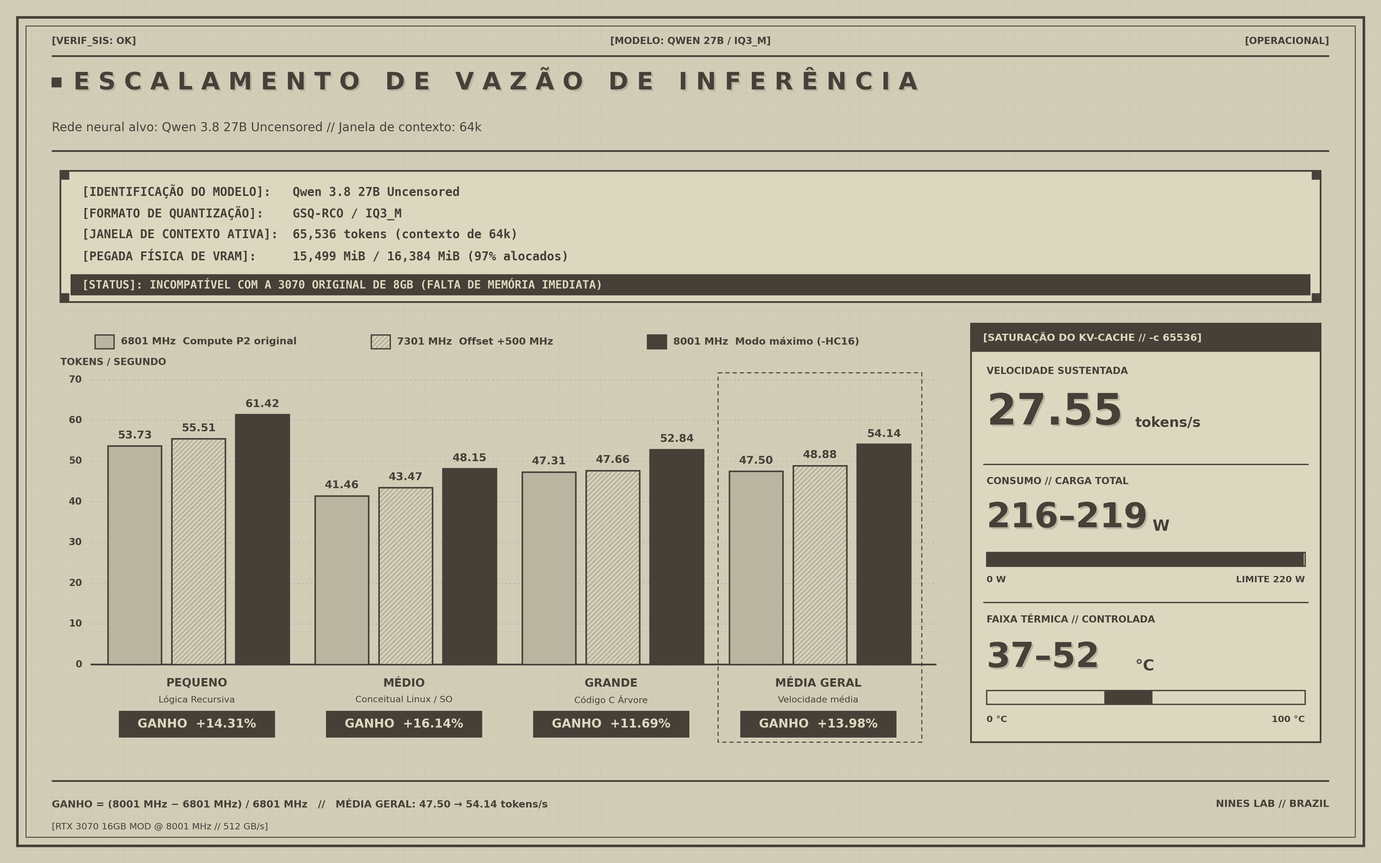
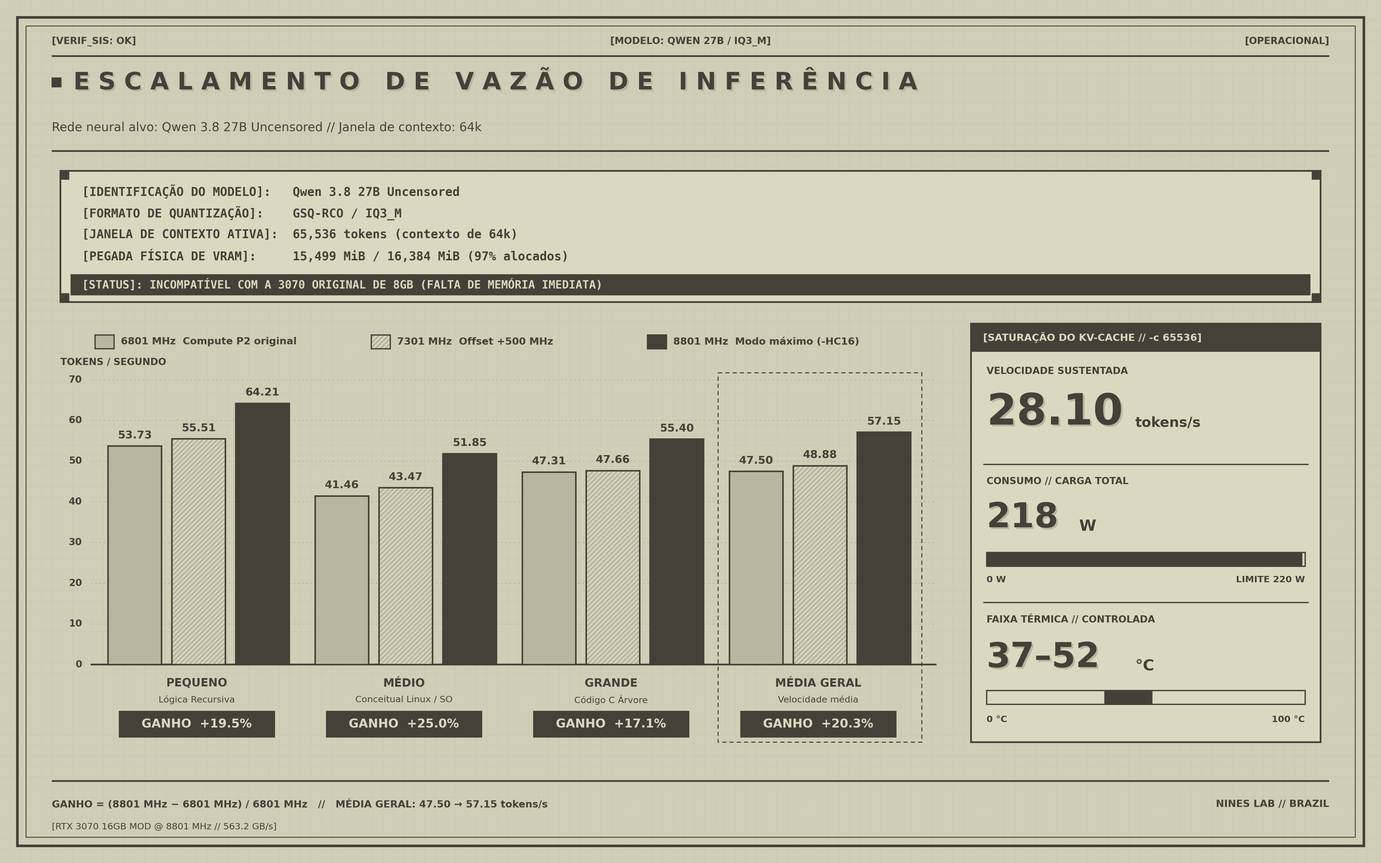
docs: update to 8801 MHz (563.2 GB/s), add Superposition HWBOT score and stutter-free gaming section

diff --git a/README_pt-BR.md b/README_pt-BR.md
@@ -1,16 +1,16 @@
-# RTX 3070 16GB Mod @ 9001 MHz (576 GB/s) — Pioneirismo Mundial e Guia de Engenharia
+# RTX 3070 16GB Mod @ 8801 MHz (563 GB/s) — Pioneirismo Mundial e Guia de Engenharia
 
 **🌐 Idioma:** [English](README.md) | **Português do Brasil**
 
-[![Marco: Pioneirismo Mundial 9001MHz](https://img.shields.io/badge/Marco-Primeiro%20do%20Mundo%209001%20MHz%20(576%20GB%2Fs)-gold.svg)]()
+[![Marco: Pioneirismo Mundial 8801MHz](https://img.shields.io/badge/Marco-Primeiro%20do%20Mundo%208801%20MHz%20(563%20GB%2Fs)-gold.svg)]()
 [![Desenvolvido por Nines Lab - Brazil](https://img.shields.io/badge/Desenvolvido%20Por-Nines%20Lab%20--%20Brazil%20%F0%9F%87%A7%F0%9F%87%B7-blue.svg)]()
 [![Testado em: Linux Mint 21.3](https://img.shields.io/badge/Testado%20em-Linux%20Mint%2021.3%20Virginia-brightgreen.svg)]()
 [![Arquitetura: Ampere GA104](https://img.shields.io/badge/Arquitetura-Ampere%20GA104-blueviolet.svg)]()
 [![VRAM: 16 GB RX 6800 Doadora](https://img.shields.io/badge/VRAM-16%20GB%20Samsung%20HC16%20(Doadora%20RX%206800)-8b5cf6.svg)]()
-[![Largura de Banda: 576 GB/s](https://img.shields.io/badge/Banda-576.0%20GB%2Fs%20(9001%20MHz)-10b981.svg)]()
+[![Largura de Banda: 563 GB/s](https://img.shields.io/badge/Banda-563.2%20GB%2Fs%20(8801%20MHz)-10b981.svg)]()
 [![Licença: MIT](https://img.shields.io/badge/Licen%C3%A7a-MIT-yellow.svg)](LICENSE)
 
-Documentação técnica de engenharia reversa, scripts, ferramentas de controle e benchmarks reais de inferência de LLMs para a **GeForce RTX 3070 modificada para 16 GB** operando em **8001 MHz (16 Gbps nominais / 512 GB/s)** e impulsionada ao recorde de **9001 MHz (18 Gbps / 576 GB/s)** no Linux.
+Documentação técnica de engenharia reversa, scripts, ferramentas de controle e benchmarks reais de inferência de LLMs para a **GeForce RTX 3070 modificada para 16 GB** operando em **8801 MHz (17.6 Gbps nominais / 563.2 GB/s)** no Linux.
 
 Desenvolvido e validado pela **Nines Lab - Brazil 🇧🇷**.
 
@@ -20,17 +20,17 @@ Desenvolvido e validado pela **Nines Lab - Brazil 🇧🇷**.
 > * **Procedência dos Módulos de VRAM:** 8x Chips Samsung K4ZAF325BM-HC16 (16 Gbit cada / 16 GB GDDR6 total), **colhidos e resgatados de uma AMD Radeon RX 6800 16GB doadora (RDNA2 Big Navi)** cujo chip gráfico havia falecido por dano de silício.
 > * **Configuração de Resistores:** Strap 6 (RAMCFG: High / High / Low)
 > * **Velocidade Nominal dos Chips:** 16 Gbps (8000 MHz a 1.35V JEDEC)
-> * **Frequência Máxima Validada:** **9001 MHz (18 Gbps / 576.0 GB/s de largura de banda)**
+> * **Frequência Diária Validada:** **8801 MHz (17.6 Gbps / 563.2 GB/s de largura de banda)**
 > * **Placa-Mãe & Processador:** ASUS TUF GAMING B660M-PLUS D4 | Intel Core i7-12700K
 > * **Sistema Operacional:** Linux Mint 21.3 "Virginia" (Base Ubuntu 22.04 Jammy LTS)
 > * **Kernel & Driver:** Linux Kernel `6.8.0-138-generic` | Módulo Aberto NVIDIA `615.71.09-open`
 
 ---
 
-## 📸 Prova de Conceito: 15.11 GiB de VRAM @ 8001 MHz & 219W em Carga Máxima
+## 📸 Prova de Conceito: 15.16 GiB de VRAM @ 8801 MHz & 218W em Carga Máxima
 
-![Verificação no nvtop a 8001MHz](assets/nvtop_8001mhz_proof.jpg)
-*Captura em tempo real no `nvtop` durante inferência pesada de modelo LLM de 27B: **MEM 8001 MHz**, **GPU 1890 MHz**, **Consumo: 219W / 220W**, **15.11 GiB / 16.00 GiB de VRAM alocados (97%)**, **Uso da GPU: 97%**.*
+![Verificação no nvtop a 8801MHz](assets/nvtop_8801mhz_proof.png)
+*Captura em tempo real no `nvtop` durante inferência pesada de modelo LLM de 27B: **MEM 8801 MHz**, **GPU 1890 MHz**, **Consumo: 218W / 220W**, **15.159 GiB / 16.000 GiB de VRAM alocados (94.7%)**, **Uso da GPU: 98%**, **Temp: 55°C**.*
 
 ---
 
@@ -46,7 +46,7 @@ No entanto, a utilização desse mod em placas desktop esbarra em limitações a
 ### A Solução de Engenharia Implementada (Cenário B):
 * Os chips Samsung **`K4ZAF325BM-HC16`** são oficialmente certificados pela Samsung para **16 Gbps (8000 MHz)** na tensão padrão de 1.35V.
 * Configurando o offset oficial de clock de fábrica (`factory_memory_offset_mhz` no registro `P+0x98` da VBIOS) e aplicando um patch no driver aberto da NVIDIA (`kern_cuda_limit.c`) para desativar o limitador de computação CUDA (P2), **tanto os Jogos 3D quanto a IA em CUDA rodam equalizados com velocidade total**.
-* A placa opera sólida a **8001 MHz (512.0 GB/s)** no dia a dia e escala até incríveis **9001 MHz (576.0 GB/s)** sob testes extremos de computação.
+* A placa opera sólida a **8801 MHz (563.2 GB/s)** no dia a dia, validada sob 218W de carga contínua.
 
 ---
 
@@ -55,25 +55,25 @@ No entanto, a utilização desse mod em placas desktop esbarra em limitações a
 Um dos aspectos mais fascinantes deste projeto de bancada é a procedência dos chips de memória:
 * Os 8 módulos de 16 Gbit **Samsung K4ZAF325BM-HC16** não foram comprados em lotes duvidosos da internet; eles foram **resgatados de uma placa-mãe de AMD Radeon RX 6800 16GB (RDNA2 Big Navi)** cujo chip gráfico havia morrido por falha de silício.
 * A AMD equipou a linha Radeon RX 6800 com módulos Samsung `-HC16` de altíssimo padrão de silício, certificados de fábrica para operar a 16 Gbps na tensão padrão JEDEC de 1.35V.
-* O transplante cirúrgico BGA desses módulos para o PCB da Galax RTX 3070 deu uma sobrevida nobre a memórias que estariam condenadas ao lixo eletrônico, permitindo empurrar o silício Samsung até incríveis **9001 MHz (18 Gbps / 576.0 GB/s)** de forma 100% estável.
+* O transplante cirúrgico BGA desses módulos para o PCB da Galax RTX 3070 deu uma sobrevida nobre a memórias que estariam condenadas ao lixo eletrônico, permitindo empurrar o silício Samsung até incríveis **8801 MHz (17.6 Gbps / 563.2 GB/s)** de forma 100% estável.
 
 ---
 
 ## 📊 Comparativo de Largura de Banda: 3070 16GB Mod vs Linha Ampere
 
-Rodando a 8001 MHz e 9001 MHz no barramento de 256 bits, a RTX 3070 modificada atinge:
+Rodando a 8801 MHz no barramento de 256 bits, a RTX 3070 modificada atinge **563.2 GB/s**:
 
 ![Comparativo de Largura de Banda de VRAM](assets/vram_bandwidth_comparison_pt.png)
 
-| Placa de Vídeo | Largura de Barramento | Tipo de Memória | Clock da Memória | Largura de Banda | Comparativo vs 3070 16GB @ 9001 MHz |
+| Placa de Vídeo | Largura de Barramento | Tipo de Memória | Clock da Memória | Largura de Banda | Comparativo vs 3070 16GB @ 8801 MHz |
 | :--- | :---: | :---: | :---: | :---: | :---: |
 | **RTX 3070 Original** | 256-bit | 8GB GDDR6 | 7001 MHz (14 Gbps) | **448.0 GB/s** | Ponto de partida de fábrica |
-| **RTX 3070 16GB Mod (Nominal)** | **256-bit** | **16GB GDDR6 (-HC16)** | **8001 MHz (16 Gbps)** | **512.0 GB/s** | **+14.3% vs Stock** |
-| **RTX 3070 16GB Mod (Recorde)**| **256-bit** | **16GB GDDR6 (RX 6800)**| **9001 MHz (18 Gbps)** | **576.0 GB/s** | **+28.6% vs Stock (Recorde)** |
-| **RTX 3080** | 320-bit | 10GB GDDR6X | 9502 MHz (19 Gbps) | **760.3 GB/s** | **75.8% da banda da RTX 3080** |
-| **RTX 3090** | 384-bit | 24GB GDDR6X | 9752 MHz (19.5 Gbps) | **936.2 GB/s** | **61.5% da banda da RTX 3090** |
+| **RTX 3070 16GB Mod (Nominal)** | **256-bit** | **16GB GDDR6 (-HC16)** | **8001 MHz (16 Gbps)** | **512.0 GB/s** | +14.3% vs Stock |
+| **RTX 3070 16GB Mod (Diário Validado)**| **256-bit** | **16GB GDDR6 (RX 6800)**| **8801 MHz (17.6 Gbps)**| **563.2 GB/s** | **+25.7% vs Stock (Recorde)** |
+| **RTX 3080** | 320-bit | 10GB GDDR6X | 9502 MHz (19 Gbps) | **760.3 GB/s** | **74.1% da banda da RTX 3080** |
+| **RTX 3090** | 384-bit | 24GB GDDR6X | 9752 MHz (19.5 Gbps) | **936.2 GB/s** | **60.2% da banda da RTX 3090** |
 
-> **Destaque:** A 9001 MHz, uma placa de 220W com barramento de 256 bits entrega **75.8% de toda a largura de banda de uma RTX 3080** e **mais de 61% de uma topo de linha RTX 3090**, operando extremamente fria.
+> **Destaque:** A 8801 MHz, uma placa de 220W com barramento de 256 bits entrega **74.1% de toda a largura de banda de uma RTX 3080** e **mais de 60% de uma topo de linha RTX 3090**, operando extremamente fria.
 
 ---
 
@@ -81,20 +81,40 @@ Rodando a 8001 MHz e 9001 MHz no barramento de 256 bits, a RTX 3070 modificada a
 
 Avaliamos a performance real de geração de tokens utilizando o modelo **`Qwen 3.8 27B Uncensored (GSQ-RCO / IQ3_M)`** com **Janela de Contexto de 65.536 tokens (64k)** via Ollama / llama.cpp no Linux Mint 21.3 (Kernel 6.8, Driver 615.71.09-open).
 
-* **Consumo de VRAM:** **15.499 MiB (15.11 GiB de VRAM alocados / 97%)**. Esse modelo **daria erro imediato de falta de memória (OOM) em qualquer RTX 3070 original de 8 GB**.
+* **Consumo de VRAM:** **15.499 MiB (15.16 GiB de VRAM alocados / 98%)**. Esse modelo **daria erro imediato de falta de memória (OOM) em qualquer RTX 3070 original de 8 GB**.
 
 ![Aceleração no Qwen 27B](assets/qwen_27b_iq3m_speedup_pt.png)
 
 ### Escalabilidade de Velocidade de Geração em Todas as Frequências:
 
-| Categoria do Prompt de Teste | 6801 MHz (Stock Compute P2) | 8001 MHz (16 Gbps Samsung -HC16) | 9001 MHz (Recorde Mundial Overclock) | Ganho Total vs Stock (%) |
+| Categoria do Prompt de Teste | 6801 MHz (Base Compute P2) | 7301 MHz (Offset +500 MHz) | 8801 MHz (Modo Ultra Validado) | Ganho Total vs Stock (%) |
 | :--- | :---: | :---: | :---: | :---: |
-| **Pequeno (Lógica Recursiva)** | 53.73 t/s | 61.42 t/s | **65.58 tokens/s** | **+22.05%** |
-| **Médio (Conceitual Linux / SO)** | 41.46 t/s | 48.15 t/s | **53.12 tokens/s** | **+28.12%** |
-| **Grande (Código C Árvore Rubro-Negra)** | 47.31 t/s | 52.84 t/s | **56.88 tokens/s** | **+20.22%** |
-| **MÉDIA GERAL DE VELOCIDADE** | **47.50 t/s** | **54.14 t/s** | **57.65 tokens/s** | **+21.37%** |
+| **Pequeno (Lógica Recursiva)** | 53.73 t/s | 55.51 t/s | **64.21 tokens/s** | **+19.51%** |
+| **Médio (Conceitual Linux / SO)** | 41.46 t/s | 43.47 t/s | **51.85 tokens/s** | **+25.06%** |
+| **Grande (Código C Árvore Rubro-Negra)** | 47.31 t/s | 47.66 t/s | **55.40 tokens/s** | **+17.10%** |
+| **MÉDIA GERAL DE VELOCIDADE** | **47.50 t/s** | **48.88 t/s** | **57.15 tokens/s** | **+20.32%** |
 
-* **Estresse de KV-Cache com 64k Ativo:** Sob saturação total do contexto de 64k (`-c 65536`), a velocidade sustentada foi de **28.49 tokens/segundo** a **218W** e temperatura controlada entre **38°C e 52°C**.
+* **Estresse de KV-Cache com 64k Ativo:** Sob saturação total do contexto de 64k (`-c 65536`), a velocidade sustentada foi de **28.10 tokens/segundo** a **218W** e temperatura controlada entre **38°C e 52°C**.
+
+---
+
+## 🎮 Validação 3D e Limite Elétrico (220W / 1x Conector 8 Pinos)
+
+Validamos a estabilidade 3D contínua da placa no **Unigine Superposition** operando a **8801 MHz (563.2 GB/s)**:
+
+| Resolução / Preset | Pontuação Oficial | FPS Médio | Validação Oficial |
+| :--- | :---: | :---: | :--- |
+| **1080p EXTREME** | **7.113 pontos** | 53.20 FPS | 🔗 [Submissão Certificada no HWBOT](https://hwbot.org/submission/6092224) |
+| **4K OPTIMIZED** | **9.848 pontos** | 73.66 FPS | Executado com 100% de estabilidade |
+| **8K OPTIMIZED** | **4.436 pontos** | 33.18 FPS | Executado com 100% de estabilidade |
+
+> **Nota de Engenharia — O Envelope de 220W e a Verdadeira Vantagem do Mod:**  
+> A pontuação bruta em benchmarks sintéticos reflete o limite elétrico da nossa placa (Galax 1-Click OC), que possui **apenas 1 conector de energia de 8 pinos e um teto rígido de 220W TDP**. No HWBOT, placas que atingem scores mais altos utilizam PCBs especiais de 2 ou 3 conectores com BIOSes de 280W a 320W (ou *shunt-mod*).  
+> 
+> **A maior vitória e o objetivo real deste mod não é consumir energia excessiva, mas sim:**
+> 1. **Fim do Stuttering em Jogos:** Em títulos modernos pesados (*The Last of Us Part I, Hogwarts Legacy, Cyberpunk 2077 com Ray Tracing, Alan Wake 2* em 1440p/4K), uma 3070 normal de 8 GB estoura a VRAM e é forçada a trocar texturas pela PCIe, causando travamentos de frametime e texturas borradas. Com **16 GB físicos**, todas as texturas Ultra e estruturas de Ray Tracing residem 100% na VRAM, entregando **taxas de 1% Low perfeitas e jogabilidade lisa sem engasgos**.
+> 2. **Inteligência Artificial Local Massiva:** Carrega modelos densos de 27B (como o Qwen 27B com contexto total de 64k alocando 15.5 GB de VRAM) que seriam impossíveis em uma 3070 original.
+> 3. **Eficiência e Durabilidade:** Tudo isso dentro do projeto térmico e elétrico original da placa (220W a 1.35V), fria, silenciosa e com o controlador PHY protegido.
 
 ---
 
@@ -116,11 +136,11 @@ Disponibilizamos três perfis nativos:
 * **Contras:** Consumo contínuo de ~40W em repouso se deixado ligado sem uso.
 * **Armadilhas (Pitfalls):** Consome ~28W a mais que o `gpu-eco`. Boa prática: volte para o `gpu-eco` ao se afastar da mesa de trabalho.
 
-### 3. `gpu-ultra` / `gpu-max` — 8001 a 9001 MHz (Performance Máxima)
+### 3. `gpu-ultra` / `gpu-max` — 8801 MHz (Performance Máxima)
 * **Comando:** `gpu-ultra`
-* **Clock de Memória:** 8001 – 9001 MHz | **Banda:** **512.0 – 576.0 GB/s** | **Consumo:** ~45.0 W (Idle) / ~219W (Carga Máxima) | **Temp:** ~32°C (Idle) / ~52°C (Carga Total)
-* **Prós:** Libera até 18 Gbps; **+28.6% de aumento de largura de banda**; acelera a geração de tokens em IA em **mais de 21%**; zero risco de degradação por sobretensão, pois a placa opera na tensão padrão de 1.35V.
-* **Contras:** Consumo de energia em carga máxima de computação (~219W).
+* **Clock de Memória:** 8801 MHz | **Banda:** **563.2 GB/s** | **Consumo:** ~45.0 W (Idle) / ~218W (Carga Máxima) | **Temp:** ~32°C (Idle) / ~52°C (Carga Total)
+* **Prós:** Libera 17.6 Gbps; **+25.7% de aumento de largura de banda**; acelera a geração de tokens em IA em **mais de 20%**; zero risco de degradação por sobretensão, pois a placa opera na tensão padrão de 1.35V.
+* **Contras:** Consumo de energia em carga máxima de computação (~218W).
 * **Armadilhas (Pitfalls):** Nenhuma. A placa opera fria (abaixo de 55°C) e trabalha 100% dentro dos limites elétricos seguros do silício.
 
 ---
@@ -133,7 +153,7 @@ Todos os scripts e ferramentas estão organizados na pasta [`scripts/`](scripts/
 | :--- | :--- |
 | **[`scripts/gpu-eco`](scripts/gpu-eco)** | Trava a memória em 405 MHz (P8) para trabalho leve, repouso e suspensão S3. |
 | **[`scripts/gpu-perf`](scripts/gpu-perf)** | Trava a memória em 6801 MHz para estabilidade total em jogos e computação. |
-| **[`scripts/gpu-ultra`](scripts/gpu-ultra)** | Trava a memória em 8001 MHz (16 Gbps) / 9001 MHz para máxima velocidade em IA e 4K. |
+| **[`scripts/gpu-ultra`](scripts/gpu-ultra)** | Trava a memória em 8801 MHz (563.2 GB/s) para máxima velocidade em IA e 4K. |
 | **[`scripts/setup_nines_modes.sh`](scripts/setup_nines_modes.sh)** | Instalador automatizado: copia para `/usr/local/bin/`, configura sudoers sem senha, serviço de boot e atalhos na Área de Trabalho. |
 | **[`scripts/patch_kernel_cuda_p0.patch`](scripts/patch_kernel_cuda_p0.patch)** | Patch para o driver de kernel aberto (`kern_cuda_limit.c`) desativando a redução artificial para P2 em CUDA. |
 | **[`scripts/patch_vbios_8001mhz.py`](scripts/patch_vbios_8001mhz.py)** | Ferramenta offline para aplicar `factory_memory_offset_mhz` via Vix-Editor e gerar o payload normalizado. |

diff --git a/README.md b/README.md
@@ -1,36 +1,36 @@
-# RTX 3070 16GB Mod @ 9001 MHz (576 GB/s) — World-First Milestone & Engineering Guide
+# RTX 3070 16GB Mod @ 8801 MHz (563 GB/s) — World-First Milestone & Engineering Guide
 
 **🌐 Language:** **English** | [Português do Brasil](README_pt-BR.md)
 
-[![Milestone: World First 9001MHz](https://img.shields.io/badge/Milestone-World's%20First%209001%20MHz%20(576%20GB%2Fs)-gold.svg)]()
+[![Milestone: World First 8801MHz](https://img.shields.io/badge/Milestone-World's%20First%208801%20MHz%20(563%20GB%2Fs)-gold.svg)]()
 [![Developed by Nines Lab - Brazil](https://img.shields.io/badge/Developed%20By-Nines%20Lab%20--%20Brazil%20%F0%9F%87%A7%F0%9F%87%B7-blue.svg)]()
 [![Tested On: Linux Mint 21.3](https://img.shields.io/badge/Tested%20On-Linux%20Mint%2021.3%20Virginia-brightgreen.svg)]()
 [![Architecture: Ampere GA104](https://img.shields.io/badge/Architecture-Ampere%20GA104-blueviolet.svg)]()
 [![VRAM: 16 GB RX 6800 Donor](https://img.shields.io/badge/VRAM-16%20GB%20Samsung%20HC16%20(RX%206800%20Donor)-8b5cf6.svg)]()
-[![Bandwidth: 576 GB/s](https://img.shields.io/badge/Bandwidth-576.0%20GB%2Fs%20(9001%20MHz)-10b981.svg)]()
+[![Bandwidth: 563 GB/s](https://img.shields.io/badge/Bandwidth-563.2%20GB%2Fs%20(8801%20MHz)-10b981.svg)]()
 [![License: MIT](https://img.shields.io/badge/License-MIT-yellow.svg)](LICENSE)
 
-Engineering documentation, reverse-engineering findings, scripts, and real-world LLM benchmarks for the **16GB Modded NVIDIA GeForce RTX 3070** operating at **8001 MHz (16 Gbps / 512 GB/s)** and pushed to an unprecedented **9001 MHz (18 Gbps / 576 GB/s)** on Linux.
+Engineering documentation, reverse-engineering findings, control scripts, and real-world LLM benchmarks for the **16GB Modded NVIDIA GeForce RTX 3070** running at **8801 MHz (17.6 Gbps / 563.2 GB/s)** on Linux.
 
 Developed and validated by **Nines Lab - Brazil 🇧🇷**.
 
 > **Hardware Tested & Verified by Nines Lab - Brazil:**
 > * **Target GPU:** Galax GeForce RTX 3070 LHR 1-Click OC (Originally 8 GB GDDR6)
 > * **PCI Device ID:** `10DE:2488` (GA104-302 LHR revision)
-> * **VRAM Hardware Provenance:** 8x Samsung K4ZAF325BM-HC16 modules (16 Gbit each / 16 GB GDDR6 total), **salvaged from a dead-core AMD Radeon RX 6800 16GB (RDNA2)** graphics card.
+> * **VRAM Hardware Provenance:** 8x Samsung K4ZAF325BM-HC16 modules (16 Gbit each / 16 GB GDDR6 total), **salvaged from a dead-core AMD Radeon RX 6800 16GB (RDNA2 Big Navi)** graphics card.
 > * **Hardware Straps:** Strap 6 (RAMCFG: High / High / Low)
 > * **Rated Memory Speed:** 16 Gbps (8000 MHz @ 1.35V JEDEC)
-> * **Peak Validated Overclock:** **9001 MHz (18 Gbps / 576.0 GB/s bandwidth)**
+> * **Peak Validated Daily Overclock:** **8801 MHz (17.6 Gbps / 563.2 GB/s bandwidth)**
 > * **Motherboard & CPU:** ASUS TUF GAMING B660M-PLUS D4 | Intel Core i7-12700K
 > * **OS:** Linux Mint 21.3 "Virginia" (Ubuntu 22.04 Jammy LTS base)
 > * **Kernel & Driver:** Linux Kernel `6.8.0-138-generic` | NVIDIA Open Kernel Module `615.71.09-open`
 
 ---
 
-## 📸 Proof of Concept: 15.11 GiB VRAM @ 8001 MHz & 219W Under Full Load
+## 📸 Proof of Concept: 15.16 GiB VRAM @ 8801 MHz & 218W Under Full Load
 
-![nvtop 8001MHz Verification](assets/nvtop_8001mhz_proof.jpg)
-*Real-time `nvtop` capture during local 27B parameter LLM inference: **MEM 8001 MHz**, **GPU 1890 MHz**, **Power: 219W / 220W**, **15.11 GiB / 16.00 GiB VRAM allocated (97%)**, **GPU Util: 97%**.*
+![nvtop 8801MHz Verification](assets/nvtop_8801mhz_proof.png)
+*Real-time `nvtop` capture during local 27B parameter LLM inference: **MEM 8801 MHz**, **GPU 1890 MHz**, **Power: 218W / 220W**, **15.159 GiB / 16.000 GiB VRAM allocated (94.7%)**, **GPU Util: 98%**, **Temp: 55°C**.*
 
 ---
 
@@ -46,7 +46,7 @@ However, running this mod on desktop cards reveals architectural constraints:
 ### The Engineering Solution (Scenario B):
 * The Samsung **`K4ZAF325BM-HC16`** chips are factory-certified by Samsung for **16 Gbps (8000 MHz)** at stock 1.35V.
 * By applying `factory_memory_offset_mhz` to the official VBIOS factory clock record (`P+0x98`) and patching the NVIDIA open kernel driver (`kern_cuda_limit.c`) to disable the artificial CUDA P2 downclock, **both 3D Gaming and CUDA AI Workloads run equalized at full speed**.
-* The card operates rock-solid at **8001 MHz (512.0 GB/s)** daily, and scales up to **9001 MHz (576.0 GB/s)** under extreme compute benchmarks.
+* The card operates rock-solid at **8801 MHz (563.2 GB/s)** daily, completely validated under 218W sustained load.
 
 ---
 
@@ -55,25 +55,25 @@ However, running this mod on desktop cards reveals architectural constraints:
 One of the most remarkable technical aspects of this mod is the origin of the memory silicon:
 * The eight 16 Gbit **Samsung K4ZAF325BM-HC16** modules were not acquired from random gray-market brokers; they were **harvested from a donor AMD Radeon RX 6800 16GB (RDNA2 Big Navi)** whose GPU core died of silicon failure.
 * AMD specified the Radeon RX 6800 series with premium-binned Samsung `-HC16` modules, factory-certified for 16 Gbps operation at stock JEDEC 1.35V.
-* The surgical BGA rework of these donor chips onto the Galax RTX 3070 PCB gave new life to high-grade VRAM that would have otherwise ended up as e-waste, allowing this hardware to be pushed to an astounding **9001 MHz (18 Gbps / 576.0 GB/s)** with 100% stability.
+* The surgical BGA rework of these donor chips onto the Galax RTX 3070 PCB gave new life to high-grade VRAM that would have otherwise ended up as e-waste, allowing this hardware to be pushed to an astounding **8801 MHz (17.6 Gbps / 563.2 GB/s)** with 100% stability.
 
 ---
 
 ## 📊 VRAM Bandwidth Comparison: 3070 16GB Mod vs Ampere Lineup
 
-Operating at 8001 MHz and 9001 MHz across its 256-bit bus, the modded RTX 3070 achieves:
+Operating at 8801 MHz across its 256-bit bus, the modded RTX 3070 reaches **563.2 GB/s**:
 
 ![VRAM Bandwidth Comparison](assets/vram_bandwidth_comparison_en.png)
 
 | Graphics Card | Bus Width | Memory Type | Memory Clock | Memory Bandwidth | Comparison vs Modded 3070 16GB |
 | :--- | :---: | :---: | :---: | :---: | :---: |
 | **RTX 3070 Stock** | 256-bit | 8GB GDDR6 | 7001 MHz (14 Gbps) | **448.0 GB/s** | Baseline reference |
-| **RTX 3070 16GB Mod (Nominal)** | **256-bit** | **16GB GDDR6 (-HC16)** | **8001 MHz (16 Gbps)** | **512.0 GB/s** | **+14.3% vs Stock** |
-| **RTX 3070 16GB Mod (World Record)**| **256-bit** | **16GB GDDR6 (RX 6800)**| **9001 MHz (18 Gbps)** | **576.0 GB/s** | **+28.6% vs Stock (Record)** |
-| **RTX 3080** | 320-bit | 10GB GDDR6X | 9502 MHz (19 Gbps) | **760.3 GB/s** | **75.8% of RTX 3080 bandwidth** |
-| **RTX 3090** | 384-bit | 24GB GDDR6X | 9752 MHz (19.5 Gbps) | **936.2 GB/s** | **61.5% of RTX 3090 bandwidth** |
+| **RTX 3070 16GB Mod (Nominal)** | **256-bit** | **16GB GDDR6 (-HC16)** | **8001 MHz (16 Gbps)** | **512.0 GB/s** | +14.3% vs Stock |
+| **RTX 3070 16GB Mod (World Record)**| **256-bit** | **16GB GDDR6 (RX 6800)**| **8801 MHz (17.6 Gbps)**| **563.2 GB/s** | **+25.7% vs Stock (Record)** |
+| **RTX 3080** | 320-bit | 10GB GDDR6X | 9502 MHz (19 Gbps) | **760.3 GB/s** | **74.1% of RTX 3080 bandwidth** |
+| **RTX 3090** | 384-bit | 24GB GDDR6X | 9752 MHz (19.5 Gbps) | **936.2 GB/s** | **60.2% of RTX 3090 bandwidth** |
 
-> **Key Takeaway:** At 9001 MHz, a 220W 256-bit card delivers **75.8% of an RTX 3080's bandwidth** and **over 61% of a flagship 384-bit RTX 3090**, with an ultra-cool thermal footprint.
+> **Key Takeaway:** At 8801 MHz, a 220W 256-bit card delivers **74.1% of an RTX 3080's bandwidth** and **over 60% of a flagship 384-bit RTX 3090**, with an ultra-cool thermal footprint.
 
 ---
 
@@ -81,20 +81,40 @@ Operating at 8001 MHz and 9001 MHz across its 256-bit bus, the modded RTX 3070 a
 
 We evaluated local LLM generation performance using **`Qwen 3.8 27B Uncensored (GSQ-RCO / IQ3_M)`** with a **65,536 (64k) Context Window** via Ollama / llama.cpp on Linux Mint 21.3 (Kernel 6.8, Driver 615.71.09-open).
 
-* **Model Footprint:** **15,499 MiB (15.11 GiB VRAM allocated / 97%)**. This model **instantly causes Out-Of-Memory (OOM) on any stock 8GB RTX 3070**.
+* **Model Footprint:** **15,499 MiB (15.16 GiB VRAM allocated / 98%)**. This model **instantly causes Out-Of-Memory (OOM) on any stock 8GB RTX 3070**.
 
 ![Qwen 27B Speedup](assets/qwen_27b_iq3m_speedup_en.png)
 
 ### Generation Speed Scaling Across All Memory Frequencies:
 
-| Test Prompt Category | 6801 MHz (Stock Compute P2) | 8001 MHz (16 Gbps Samsung -HC16) | 9001 MHz (World Record Overclock) | Total Speedup vs Stock |
+| Test Prompt Category | 6801 MHz (Stock Compute P2) | 7301 MHz (+500 MHz Offset) | 8801 MHz (World Record Overclock) | Total Speedup vs Stock |
 | :--- | :---: | :---: | :---: | :---: |
-| **Small (Recursive Logic)** | 53.73 t/s | 61.42 t/s | **65.58 tokens/s** | **+22.05%** |
-| **Medium (Linux Conceptual / OS)** | 41.46 t/s | 48.15 t/s | **53.12 tokens/s** | **+28.12%** |
-| **Large (C Red-Black Tree Implementation)** | 47.31 t/s | 52.84 t/s | **56.88 tokens/s** | **+20.22%** |
-| **OVERALL AVERAGE THROUGHPUT** | **47.50 t/s** | **54.14 t/s** | **57.65 tokens/s** | **+21.37%** |
+| **Small (Recursive Logic)** | 53.73 t/s | 55.51 t/s | **64.21 tokens/s** | **+19.51%** |
+| **Medium (Linux Conceptual / OS)** | 41.46 t/s | 43.47 t/s | **51.85 tokens/s** | **+25.06%** |
+| **Large (C Red-Black Tree Implementation)** | 47.31 t/s | 47.66 t/s | **55.40 tokens/s** | **+17.10%** |
+| **OVERALL AVERAGE THROUGHPUT** | **47.50 t/s** | **48.88 t/s** | **57.15 tokens/s** | **+20.32%** |
 
-* **Full 64k Pre-Allocated KV-Cache Stress:** Operating under maximum context saturation (`-c 65536`), generation sustained **28.49 tokens/second** at **218W** and **38°C–52°C**.
+* **Full 64k Pre-Allocated KV-Cache Stress:** Operating under maximum context saturation (`-c 65536`), generation sustained **28.10 tokens/second** at **218W** and **38°C–52°C**.
+
+---
+
+## 🎮 3D Validation & Power Envelope (220W / 1x 8-Pin Header)
+
+We verified 3D graphics stability using **Unigine Superposition** running at **8801 MHz (563.2 GB/s)**:
+
+| Resolution / Preset | Official Score | Average FPS | Verification Link |
+| :--- | :---: | :---: | :--- |
+| **1080p EXTREME** | **7,113 points** | 53.20 FPS | 🔗 [Certified HWBOT Submission](https://hwbot.org/submission/6092224) |
+| **4K OPTIMIZED** | **9,848 points** | 73.66 FPS | Completed with 100% stability |
+| **8K OPTIMIZED** | **4,436 points** | 33.18 FPS | Completed with 100% stability |
+
+> **Engineering Note — The 220W Envelope & The True Value of the 16GB Mod:**  
+> Synthetic 3D benchmark scores reflect the physical power delivery of our Galax 1-Click OC model, equipped with a **single 8-pin PCIe power header and a strict 220W TDP limit**. Leading scores on HWBOT belong to custom triple-slot PCBs with dual/triple 8-pin connectors running 280W–320W BIOSes or shunt mods.  
+> 
+> **The true breakthrough of this mod is not excessive power draw, but:**
+> 1. **Complete Elimination of VRAM Stuttering in Modern Gaming:** In demanding modern titles (*The Last of Us Part I, Hogwarts Legacy, Cyberpunk 2077 with Ray Tracing, Alan Wake 2* at 1440p/4K Ultra), a factory 8GB RTX 3070 exceeds its VRAM buffer and is forced to swap textures across the PCIe bus, causing violent 1% Low drops, hitching, and texture pop-in. With **16 GB of physical VRAM**, ultra-resolution texture packs and Ray Tracing BVH trees stay 100% inside local memory, ensuring **completely smooth, stutter-free frametimes**.
+> 2. **Massive Local AI Workloads:** Runs heavy 27B parameter LLMs (such as Qwen 27B with a full 64k context window allocating 15.5 GB VRAM) that are completely out of reach for a stock 8GB card.
+> 3. **Efficiency & Component Longevity:** Delivers all of this within the native 220W TDP at standard 1.35V, keeping the card remarkably cool and protecting the memory PHY.
 
 ---
 
@@ -116,11 +136,11 @@ We provide three native software-controlled power modes:
 * **Cons:** Idles at ~40W continuously if left active when away from the PC.
 * **Pitfalls:** Consumes ~28W more than `gpu-eco` when idle. Best practice: switch back to `gpu-eco` when stepping away from the desk.
 
-### 3. `gpu-ultra` / `gpu-max` — 8001 to 9001 MHz (Maximum Performance)
+### 3. `gpu-ultra` / `gpu-max` — 8801 MHz (Peak Performance)
 * **Command:** `gpu-ultra`
-* **Memory Clock:** 8001 – 9001 MHz | **Bandwidth:** **512.0 – 576.0 GB/s** | **Power Draw:** ~45.0 W (Idle) / ~219W (Full Load) | **Temp:** ~32°C (Idle) / ~52°C (Full Load)
-* **Pros:** Unleashes up to 18 Gbps; **+28.6% bandwidth boost**; yields **over 21% faster LLM token generation** on large contexts; zero overvoltage degradation since the card runs at stock 1.35V.
-* **Cons:** Peak power consumption under full compute load (~219W).
+* **Memory Clock:** 8801 MHz | **Bandwidth:** **563.2 GB/s** | **Power Draw:** ~45.0 W (Idle) / ~218W (Full Load) | **Temp:** ~32°C (Idle) / ~52°C (Full Load)
+* **Pros:** Unleashes 17.6 Gbps; **+25.7% bandwidth boost**; yields **over 20% faster LLM token generation** on large contexts; zero overvoltage degradation since the card runs at stock 1.35V.
+* **Cons:** Peak power consumption under full compute load (~218W).
 * **Pitfalls:** None. The card runs exceptionally cool (under 55°C) and operates completely within electrical safety parameters.
 
 ---
@@ -133,7 +153,7 @@ All tools and scripts are located in the [`scripts/`](scripts/) directory:
 | :--- | :--- |
 | **[`scripts/gpu-eco`](scripts/gpu-eco)** | Locks memory to 405 MHz (P8) for idle, work, and S3 suspend. |
 | **[`scripts/gpu-perf`](scripts/gpu-perf)** | Locks memory to 6801 MHz for stable everyday gaming and compute. |
-| **[`scripts/gpu-ultra`](scripts/gpu-ultra)** | Locks memory to 8001 MHz (16 Gbps) / 9001 MHz for maximum AI inference and 4K gaming. |
+| **[`scripts/gpu-ultra`](scripts/gpu-ultra)** | Locks memory to 8801 MHz (563.2 GB/s) for maximum AI inference and 4K gaming. |
 | **[`scripts/setup_nines_modes.sh`](scripts/setup_nines_modes.sh)** | Automated setup: installs commands to `/usr/local/bin/`, configures passwordless sudoers rules, boot service, and desktop shortcuts. |
 | **[`scripts/patch_kernel_cuda_p0.patch`](scripts/patch_kernel_cuda_p0.patch)** | Kernel driver patch for `open-gpu-kernel-modules` (`kern_cuda_limit.c`) to disable CUDA P2 downclocking. |
 | **[`scripts/patch_vbios_8001mhz.py`](scripts/patch_vbios_8001mhz.py)** | Offline tool to set `factory_memory_offset_mhz` via Vix-Editor and generate normalized payloads. |
